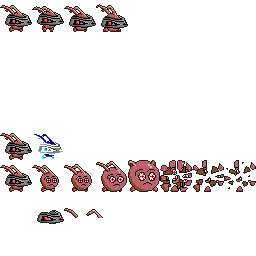
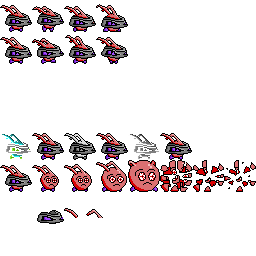
Added NPC class and Dino_male subclass to NPC

diff --git a/npc.py b/npc.py
@@ -1,0 +1,49 @@
+from character import *
+
+
+class NPC(Character):
+    def __init__(self, lvl, loc, *groups):
+        self.image = self.animSurf['idle_left'].getCurrentFrame()
+        super(NPC, self).__init__(lvl, loc)
+        self.dir = 'left'
+        self.start = loc
+        self.rect.center = self.start
+        self.patrol_distance = 0
+
+    def update(self, dt, lvl, key, joy, screen, keys):
+        self.move()
+        super(NPC, self).update(dt, lvl, key, joy, screen, keys)
+
+    def move(self):
+        right = 'right'
+        left = 'left'
+        if abs(self.rect.left - self.start[0]) > self.patrol_distance:
+            self.dir = right
+        if abs(self.rect.right - self.start[0]) > self.patrol_distance:
+            self.dir = left
+        #setting directions for idle
+        if self.dir == 'left':
+            self.image = self.animSurf['idle_left'].getCurrentFrame()
+            self.hitmask = self.hitmask_dict['idle_left'][self.animSurf['idle_left']._propGetCurrentFrameNum()]
+        if self.dir == 'right':
+            self.image = self.animSurf['idle_right'].getCurrentFrame()
+            self.hitmask = self.hitmask_dict['idle_right'][self.animSurf['idle_right']._propGetCurrentFrameNum()]
+        if self.dir == left and self.max_speed > 0:
+            self.image = self.animSurf['idle_left'].getCurrentFrame()
+            self.hitmask = self.hitmask_dict['idle_left'][self.animSurf['idle_left']._propGetCurrentFrameNum()]
+            self.x_vel -= self.speed
+        if self.dir == right and self.max_speed > 0:
+            self.image = self.animSurf['idle_right'].getCurrentFrame()
+            self.hitmask = self.hitmask_dict['idle_right'][self.animSurf['idle_right']._propGetCurrentFrameNum()]
+            self.x_vel += self.speed
+
+
+class Dino_male(NPC):
+    def __init__(self, lvl, loc, *groups):
+        super(Character, self).__init__(*groups)
+        self.sheet = pygame.image.load('images/dino_male.png').convert_alpha()
+        self.animTypes = 'idle_right walk_right'.split()
+        self.placeholder = self.sheet.subsurface(0, 0, 64, 64)
+        self.animSurf, self.hitmask_dict = self.get_images(self.sheet, self.animTypes, 72, 64)
+        super(Dino_male, self).__init__(lvl, loc)
+        self.max_speed = 0

diff --git a/character.py b/character.py
@@ -80,8 +80,9 @@ class Character(pygame.sprite.Sprite):
         #flipping the right animations to create the left ones
         for i, src in enumerate(animTypes):
             animSurf[animFlips[i]] = self.flip_anim(animSurf[src])
-        animSurf['damage_right']._propSetLoop(False)
-        animSurf['damage_left']._propSetLoop(False)
+        if 'damage_right' in animTypes:
+            animSurf['damage_right']._propSetLoop(False)
+            animSurf['damage_left']._propSetLoop(False)
         return animSurf, hitmask_dict
 
     def setup_collision_rects(self):
@@ -326,7 +327,6 @@ class Character(pygame.sprite.Sprite):
             if self.animSurf['damage_left'].isFinished():
                 self.damage = False
         elif self.dir == 'right':
-            print('test')
             self.image = self.animSurf['damage_right'].getCurrentFrame()
             if self.animSurf['damage_right'].isFinished():
                 self.damage = False

diff --git a/player.py b/player.py
@@ -167,7 +167,6 @@ class Player(Character):
             if self.animSurf['damage_left'].isFinished():
                 self.damage = False
         elif self.dir == 'right':
-            print('test')
             self.image = self.animSurf['damage_right'].getCurrentFrame()
             self.ears.image = self.ears.animSurf['damage_right'].getCurrentFrame()
             if self.animSurf['damage_right'].isFinished():
@@ -186,7 +185,6 @@ class Ears(Character):
                     'stop_right damage_right'.split()
         self.animSurf, self.hitmask_dict = self.get_images(self.sheet, animTypes, 42, 64)
         self.image = self.animSurf['idle_right'].getCurrentFrame()
-        #self.image = self.sheet.subsurface(0, 0, 42, 64)
         super(Ears, self).__init__(lvl, loc)
         self.rect.topleft = loc
         self.hitmask.clear()

diff --git a/level.py b/level.py
@@ -2,6 +2,7 @@ import pygame
 import player
 import platform
 import monster
+import npc
 import sys
 from pygame.locals import *
 import tmx
@@ -87,6 +88,13 @@ class Level(object):
             if enemy.properties['enemy'] == 'standing':
                 monster.Standing(self, (enemy.px, enemy.py), self.enemies)
         self.tilemap.layers.append(self.enemies)
+
+        #Load in NPCs
+        self.npc = tmx.SpriteLayer()
+        for npcs in self.tilemap.layers['spawns'].find('npc'):
+            if npcs.properties['npc'] == 'dino_male':
+                npc.Dino_male(self, (npcs.px, npcs.py), self.npc)
+        self.tilemap.layers.append(self.npc)
         
         #for test in self.enemies.__iter__():
         #    print test.rect

diff --git a/monster.py b/monster.py
@@ -23,8 +23,6 @@ class Monster(Character):
         super(Monster, self).update(dt, lvl, key, joy, screen, keys)
         
     def move(self):
-        #self.conductor.play()
-        #self.x_vel = 0
         right = 'right'
         left = 'left'
         if abs(self.rect.left - self.start[0]) > self.patrol_distance:
